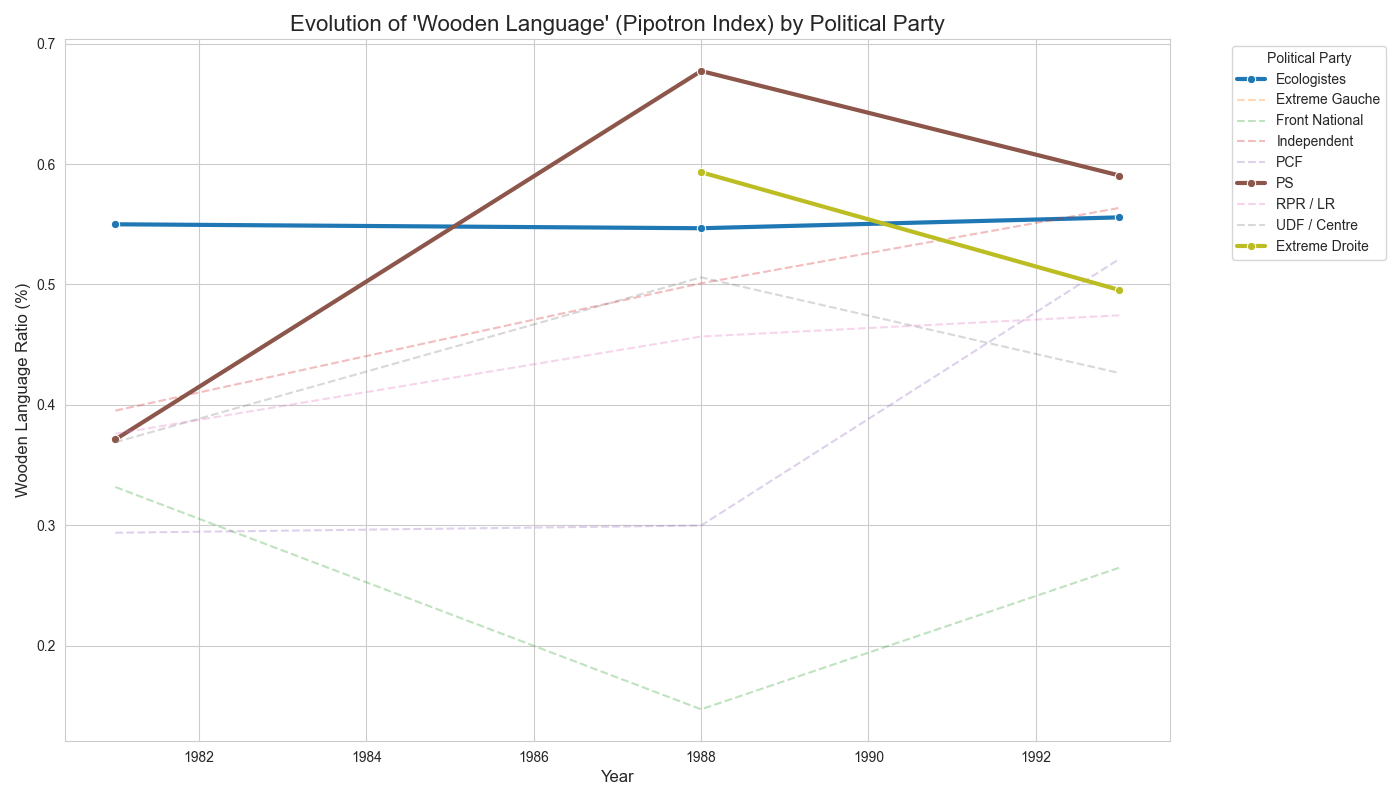
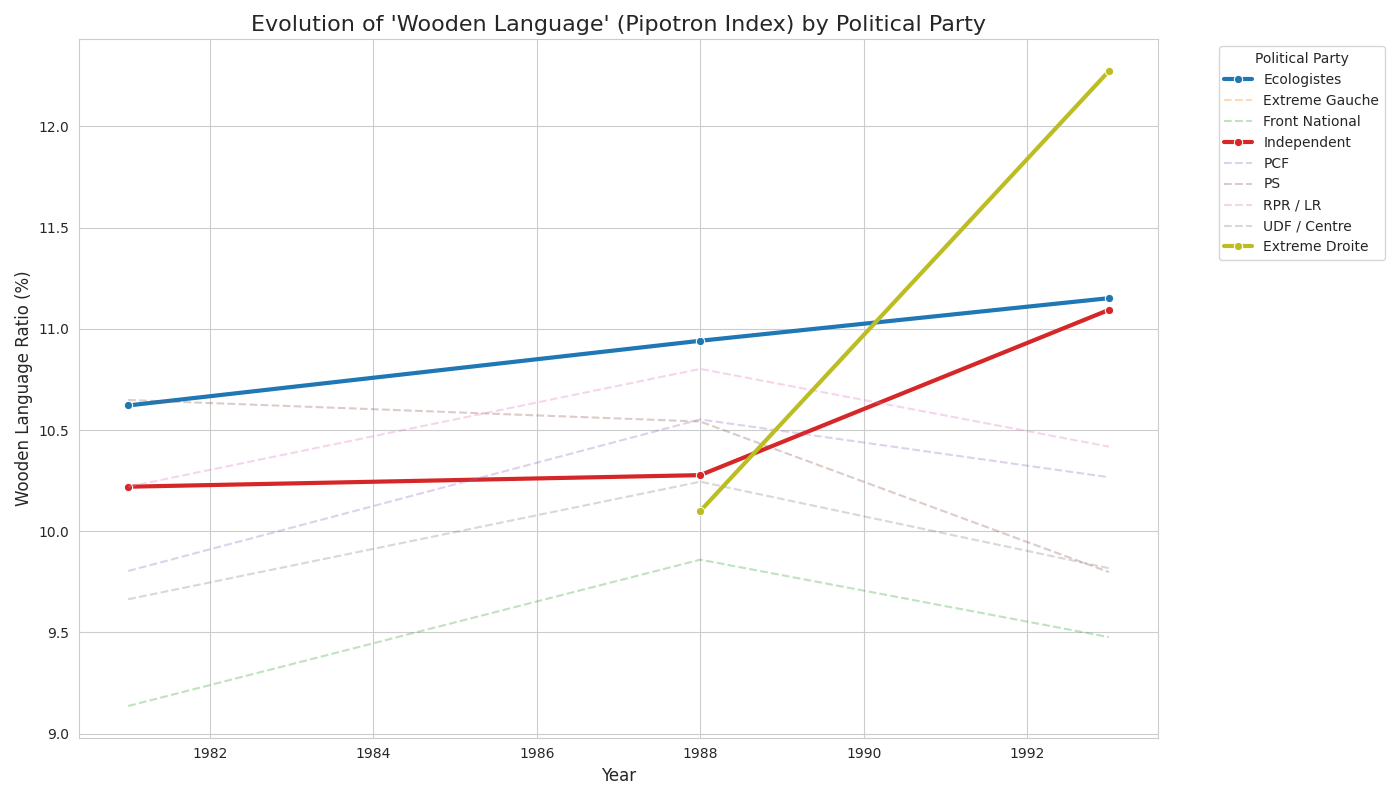
Lemmatisation for pipotron

diff --git a/src/wooden_pipotron/pipotron_analysis.py b/src/wooden_pipotron/pipotron_analysis.py
@@ -2,68 +2,190 @@ import pandas as pd
 import os
 import matplotlib.pyplot as plt
 import seaborn as sns
+import spacy
 
 from helper_function.print import *
 from src.wooden_pipotron.wooden_data import wooden_80_90
+
 
 DATA_PATH = "data/clean/archelect_clean.parquet"
 LOG_DIR = "logs/wooden_pipotron"
 os.makedirs(LOG_DIR, exist_ok=True)
 
-def calculate_wooden_ratio(text, wooden_list):
-    if not text or not isinstance(text, str):
-        return 0
-    words = text.split()
-    if not words:
-        return 0
-    count = sum(1 for word in words if word in wooden_list)
-    return (count / len(words)) * 100
+# Load NLP model once
+nlp = spacy.load("fr_core_news_sm", disable=["ner", "parser"])
 
-def run_analysis():
-    if not os.path.exists(DATA_PATH):
-        print(red(f"Error: {DATA_PATH} not found."))
-        return
+
+def load_data(path):
+    """
+    Load dataset and extract year from date column.
+
+    Args:
+        path (str): Path to parquet file.
+
+    Returns:
+        pd.DataFrame: Loaded dataframe with 'year' column.
+    """
+    if not os.path.exists(path):
+        print(red(f"Error: {path} not found."))
+        return None
 
     print(blue("[ Loading dataset ]"))
-    df = pd.read_parquet(DATA_PATH)
-    
+    df = pd.read_parquet(path)
     df['year'] = pd.to_datetime(df['date']).dt.year
-    
+    return df
+
+
+def build_wooden_set(word_list):
+    """
+    Lemmatize a list of wooden words.
+
+    Args:
+        word_list (list): List of words.
+
+    Returns:
+        set: Lemmatized set of words.
+    """
+    return set(
+        token.lemma_.lower()
+        for word in word_list
+        for token in nlp(word)
+    )
+
+
+def compute_wooden_scores(texts, wooden_set):
+    """
+    Compute wooden language score using spaCy batch processing.
+
+    Args:
+        texts (Iterable[str]): Text corpus.
+        wooden_set (set): Set of lemmatized wooden words.
+
+    Returns:
+        list: Wooden scores for each text.
+    """
     print(blue("[ Calculating Wooden Language Ratio ]"))
-    wooden_set = set(word.lower() for word in wooden_80_90)
-    df['wooden_score'] = df['raw_text'].apply(lambda x: calculate_wooden_ratio(x, wooden_set))
-    
+
+    scores = []
+    docs = nlp.pipe(texts, batch_size=50)
+
+    for doc in docs:
+        lemmas = [token.lemma_.lower() for token in doc if token.is_alpha]
+
+        if not lemmas:
+            scores.append(0)
+            continue
+
+        count = sum(1 for lemma in lemmas if lemma in wooden_set)
+        scores.append((count / len(lemmas)) * 100)
+
+    return scores
+
+
+def compute_statistics(df):
+    """
+    Compute aggregated statistics and rankings.
+
+    Args:
+        df (pd.DataFrame): Data with wooden_score.
+
+    Returns:
+        tuple: (stats dataframe, overall ranking, top 3 parties)
+    """
     stats = df.groupby(['year', 'affiliate political party'])['wooden_score'].mean().reset_index()
 
-    overall_ranking = df.groupby('affiliate political party')['wooden_score'].mean().sort_values(ascending=False)
+    overall_ranking = (
+        df.groupby('affiliate political party')['wooden_score']
+        .mean()
+        .sort_values(ascending=False)
+    )
+
     top_3_parties = overall_ranking.head(3).index.tolist()
+
     print(blue(f"Top 3 Wooden Language Users (Overall): {top_3_parties}"))
 
+    return stats, overall_ranking, top_3_parties
+
+
+def plot_results(stats, top_3_parties):
+    """
+    Plot wooden language evolution over time.
+
+    Args:
+        stats (pd.DataFrame): Aggregated stats.
+        top_3_parties (list): Top parties to highlight.
+    """
     plt.figure(figsize=(14, 8))
     sns.set_style("whitegrid")
-    
+
     for party in stats['affiliate political party'].unique():
         party_data = stats[stats['affiliate political party'] == party]
+
         if party in top_3_parties:
-            sns.lineplot(data=party_data, x='year', y='wooden_score', label=party, linewidth=3, marker='o')
+            sns.lineplot(
+                data=party_data,
+                x='year',
+                y='wooden_score',
+                label=party,
+                linewidth=3,
+                marker='o'
+            )
         else:
-            sns.lineplot(data=party_data, x='year', y='wooden_score', label=party, alpha=0.3, linestyle='--')
+            sns.lineplot(
+                data=party_data,
+                x='year',
+                y='wooden_score',
+                label=party,
+                alpha=0.3,
+                linestyle='--'
+            )
 
     plt.title("Evolution of 'Wooden Language' (Pipotron Index) by Political Party", fontsize=16)
     plt.ylabel("Wooden Language Ratio (%)", fontsize=12)
     plt.xlabel("Year", fontsize=12)
     plt.legend(title="Political Party", bbox_to_anchor=(1.05, 1), loc='upper left')
     plt.tight_layout()
-    
+
     plot_path = os.path.join(LOG_DIR, "wooden_language_evolution.png")
     plt.savefig(plot_path)
+
     print(f"Analysis complete. Visualization saved to {plot_path}")
 
-    # Display Top 3 stats for logs
+
+def display_top3(overall_ranking, top_3_parties):
+    """
+    Print summary of top 3 parties.
+
+    Args:
+        overall_ranking (pd.Series): Mean scores by party.
+        top_3_parties (list): Top parties.
+    """
     print(green("\n--- Top 3 Summary (Mean Scores) ---"))
+
     for party in top_3_parties:
         score = overall_ranking[party]
         print(f"{party: <15}: {score:.4f}%")
 
+
+def run_analysis():
+    """
+    Main pipeline execution.
+    """
+    df = load_data(DATA_PATH)
+    if df is None:
+        return
+
+    wooden_set = build_wooden_set(wooden_80_90)
+
+    df['wooden_score'] = compute_wooden_scores(df['raw_text'], wooden_set)
+
+    stats, overall_ranking, top_3_parties = compute_statistics(df)
+
+    plot_results(stats, top_3_parties)
+
+    display_top3(overall_ranking, top_3_parties)
+
+
 if __name__ == "__main__":
     run_analysis()
+
